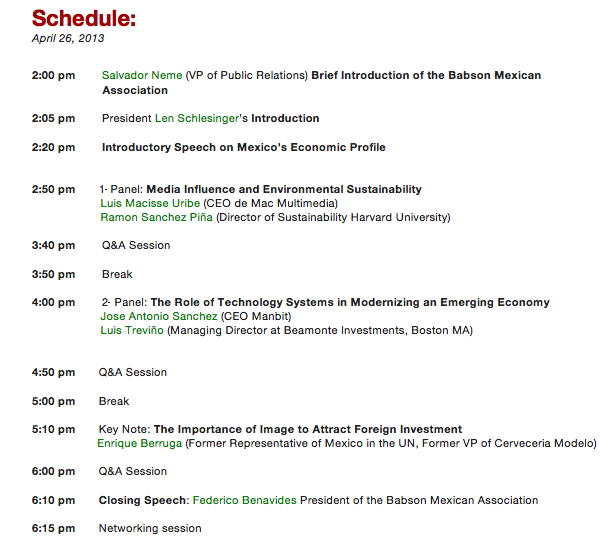
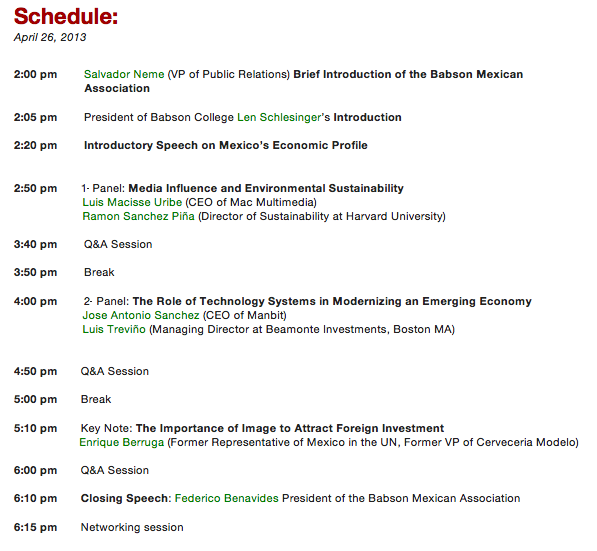
Fix Schedule

diff --git a/app/assets/stylesheets/custom.css.scss b/app/assets/stylesheets/custom.css.scss
@@ -300,7 +300,7 @@ border:$green 5px solid;
 }
 
 #bma_schedule {
-margin-left:2%;
+margin-left:4%;
 margin-top:15px;
 }
 
